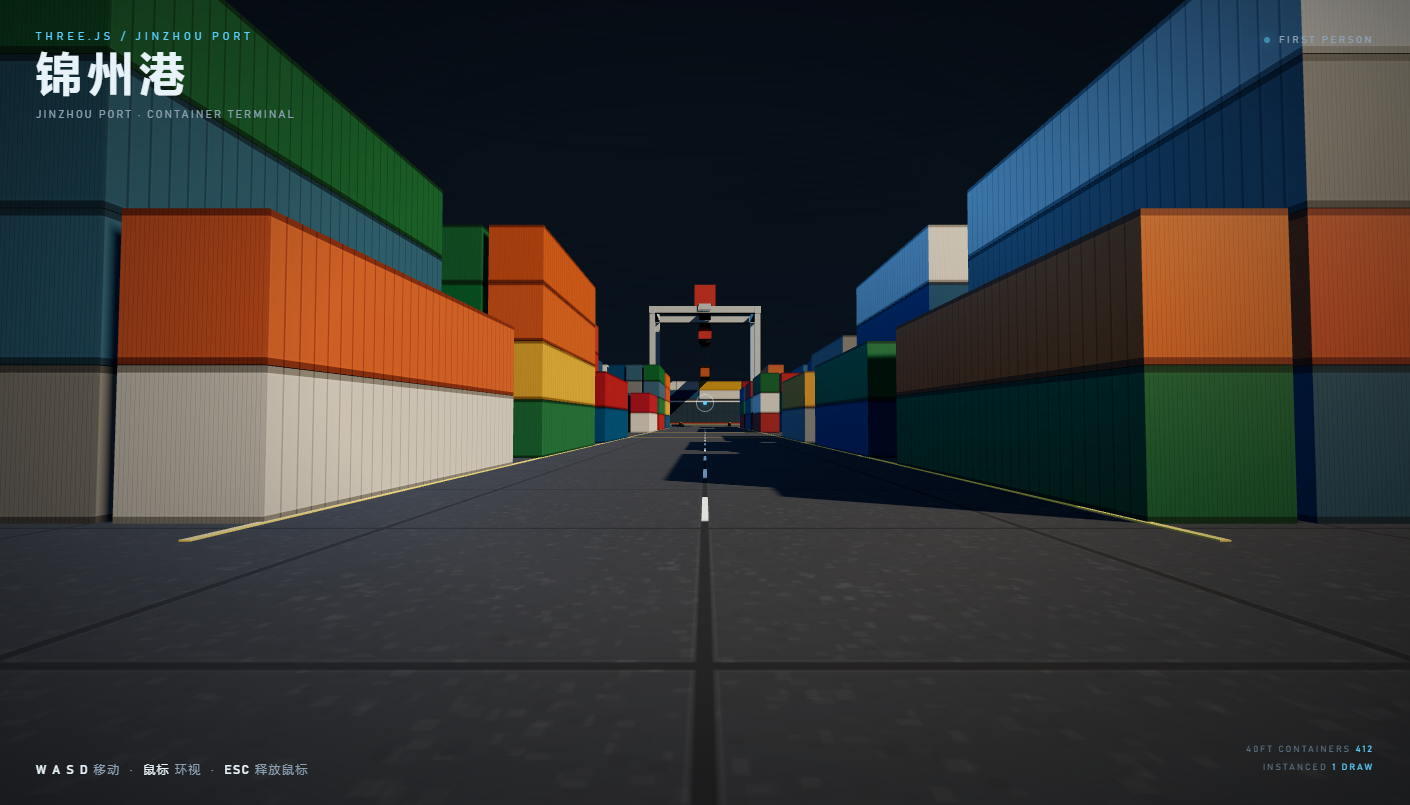
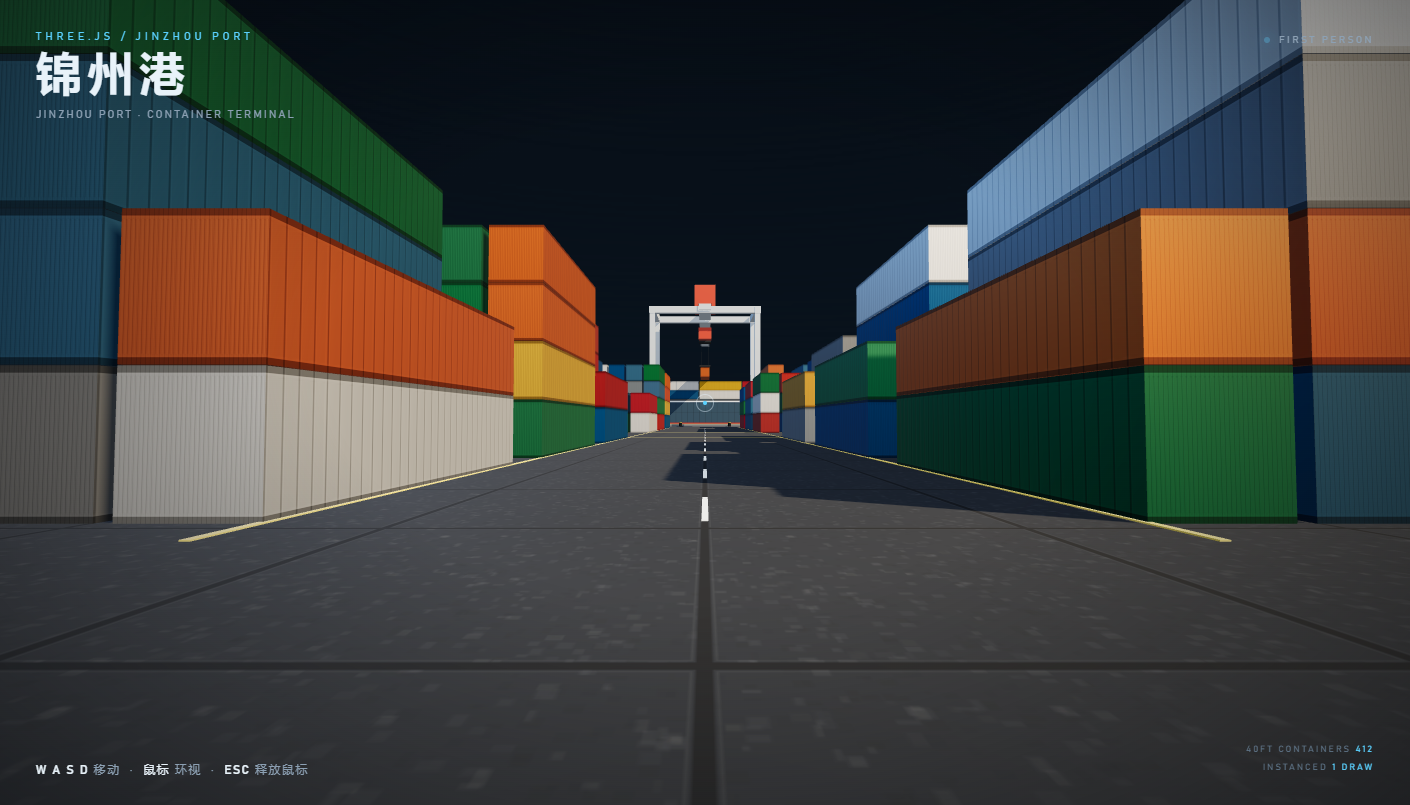
feat: 集装箱钢铁质感（metalness 0.8 / RoomEnvironment IBL / 瓦楞 bump）
- 集装箱改为 MeshStandardMaterial，metalness 0.8、roughness 0.6
- 使用 RoomEnvironment + PMREMGenerator 生成环境贴图，增加金属反射
- 代码生成波浪瓦楞 bump map（波纹、横梁、角柱），bumpScale 0.1
- 增加 AmbientLight 并提亮太阳光，阴影过渡更柔和

diff --git a/index.html b/index.html
@@ -328,6 +328,7 @@
   <script type="module">
     import * as THREE from 'three';
     import { PointerLockControls } from 'three/addons/controls/PointerLockControls.js';
+    import { RoomEnvironment } from 'three/addons/environments/RoomEnvironment.js';
 
     const EYE_HEIGHT = 1.7;
     const CONTAINER = { w: 2.44, h: 2.59, l: 12.19 };
@@ -350,7 +351,7 @@
     renderer.shadowMap.enabled = true;
     renderer.shadowMap.type = THREE.PCFSoftShadowMap;
     renderer.toneMapping = THREE.ACESFilmicToneMapping;
-    renderer.toneMappingExposure = 1.35;
+    renderer.toneMappingExposure = 1.3;
     document.body.appendChild(renderer.domElement);
 
     const anisotropy = renderer.capabilities.getMaxAnisotropy();
@@ -361,6 +362,14 @@
     const scene = new THREE.Scene();
     scene.background = makeSkyTexture();
     scene.fog = new THREE.Fog(0x0e1c28, 170, 460);
+
+    // HDR-ish image based lighting for the metal container surfaces.
+    const pmremGenerator = new THREE.PMREMGenerator(renderer);
+    const roomEnvironment = new RoomEnvironment();
+    scene.environment = pmremGenerator.fromScene(roomEnvironment, 0.04).texture;
+    scene.environmentIntensity = 0.3;
+    roomEnvironment.dispose();
+    pmremGenerator.dispose();
 
     const camera = new THREE.PerspectiveCamera(
       70,
@@ -449,7 +458,7 @@
     /* ------------------------------------------------------------------ */
     /*  Lights                                                             */
     /* ------------------------------------------------------------------ */
-    const sun = new THREE.DirectionalLight(0xffe2b8, 4.2);
+    const sun = new THREE.DirectionalLight(0xffe2b8, 5.2);
     sun.position.set(75, 70, 45);
     sun.castShadow = true;
     sun.shadow.mapSize.set(4096, 4096);
@@ -465,10 +474,13 @@
     scene.add(sun);
     scene.add(sun.target);
 
-    const skyFill = new THREE.HemisphereLight(0x9dc0e6, 0x1b2027, 1.05);
+    const skyFill = new THREE.HemisphereLight(0x9dc0e6, 0x1b2027, 0.85);
     scene.add(skyFill);
 
-    const coolFill = new THREE.DirectionalLight(0x4a8fce, 1.0);
+    const ambient = new THREE.AmbientLight(0xc4d8ea, 0.18);
+    scene.add(ambient);
+
+    const coolFill = new THREE.DirectionalLight(0x4a8fce, 0.8);
     coolFill.position.set(-60, 40, -80);
     scene.add(coolFill);
 
@@ -480,6 +492,7 @@
       new THREE.MeshStandardMaterial({
         map: makeConcreteTexture(),
         color: 0xffffff,
+        envMapIntensity: 0.35,
         roughness: 0.94,
         metalness: 0.06
       })
@@ -529,6 +542,7 @@
         color: 0xffffff,
         roughness: 0.26,
         metalness: 0.35,
+        envMapIntensity: 0.25,
         emissive: 0x0b2a3d,
         emissiveIntensity: 0.6
       })
@@ -659,12 +673,14 @@
 
     const containerGeo = new THREE.BoxGeometry(CONTAINER.w, CONTAINER.h, CONTAINER.l);
     const containerTex = makeContainerTexture();
+    const containerBump = makeContainerBumpTexture();
     const containerMat = new THREE.MeshStandardMaterial({
       map: containerTex,
-      bumpMap: containerTex,
-      bumpScale: 0.012,
-      roughness: 0.62,
-      metalness: 0.32,
+      bumpMap: containerBump,
+      bumpScale: 0.1,
+      roughness: 0.6,
+      metalness: 0.8,
+      envMapIntensity: 1.1,
       color: 0xffffff
     });
 
@@ -954,7 +970,7 @@
       c.height = size;
       const ctx = c.getContext('2d');
 
-      ctx.fillStyle = '#30353c';
+      ctx.fillStyle = '#252a31';
       ctx.fillRect(0, 0, size, size);
 
       for (let i = 0; i < 900; i++) {
@@ -963,7 +979,7 @@
         ctx.fillRect(Math.random() * size, Math.random() * size, 2 + Math.random() * 5, 2 + Math.random() * 5);
       }
 
-      ctx.strokeStyle = '#20242a';
+      ctx.strokeStyle = '#171b20';
       ctx.lineWidth = 3;
       ctx.strokeRect(1.5, 1.5, size - 3, size - 3);
       ctx.strokeStyle = 'rgba(255, 255, 255, 0.035)';
@@ -975,6 +991,46 @@
       tex.wrapT = THREE.RepeatWrapping;
       tex.repeat.set(120, 80);
       tex.colorSpace = THREE.SRGBColorSpace;
+      tex.anisotropy = anisotropy;
+      return tex;
+    }
+
+    function makeContainerBumpTexture() {
+      const size = 256;
+      const c = document.createElement('canvas');
+      c.width = size;
+      c.height = size;
+      const ctx = c.getContext('2d');
+      const img = ctx.createImageData(size, size);
+
+      for (let y = 0; y < size; y++) {
+        for (let x = 0; x < size; x++) {
+          // Vertical corrugation: grooves line up with the dark ribs in the colour map.
+          const rib = 0.5 - 0.5 * Math.cos((x / size) * Math.PI * 2 * 4);
+          let height = 80 + rib * 150;
+
+          // Raised top / bottom rails.
+          if (y < 10 || y > size - 10) height = 245;
+          else if (y < 18 || y > size - 18) height = 190;
+
+          // Raised corner posts.
+          if (x < 6 || x > size - 6) height = 250;
+
+          const i = (y * size + x) * 4;
+          const v = Math.round(height);
+          img.data[i] = v;
+          img.data[i + 1] = v;
+          img.data[i + 2] = v;
+          img.data[i + 3] = 255;
+        }
+      }
+
+      ctx.putImageData(img, 0, 0);
+
+      const tex = new THREE.CanvasTexture(c);
+      tex.wrapS = THREE.RepeatWrapping;
+      tex.wrapT = THREE.RepeatWrapping;
+      tex.repeat.set(8, 1);
       tex.anisotropy = anisotropy;
       return tex;
     }

diff --git a/README.md b/README.md
@@ -15,13 +15,21 @@
 - “锦州港 / JINZHOU PORT” 大门
 - 暖色太阳平行光 + PCFSoft 柔化阴影
 - 第一人称漫游：点击锁定鼠标、自由环视、WASD 移动
-- 仓库/集装箱/岸桥腿/大门立柱均有简单碰撞
+- 集装箱、岸桥腿、大门立柱均有简单碰撞
+
+## 金属质感
+
+- 集装箱使用 **MeshStandardMaterial**，`metalness = 0.8`、`roughness = 0.6`
+- 通过 **RoomEnvironment + PMREMGenerator** 生成环境贴图（IBL），金属表面会反射环境光
+- 程序化生成的 **波浪瓦楞 bump map**：竖向波纹 + 上下横梁 + 角柱，配合 `bumpScale = 0.1`
+- 额外加入 **AmbientLight**，与半球光、太阳光配合，让阴影过渡更柔和
 
 ## 性能优化
 
 - 所有集装箱合并为 **1 个 InstancedMesh**（1 次 draw call），而不是几百个独立 Mesh
 - 每个实例通过 `setColorAt` 单独着色，共享同一份几何体和材质
 - 场景为静态几何，**阴影贴图只在启动时生成一次**（4096 × 4096），之后不再逐帧重绘
+- 环境贴图只在启动时 PMREM 预计算一次，运行时不重新生成
 - 移动逻辑只做水平位移和 AABB 碰撞，无逐帧对象创建
 - 水面仅通过纹理偏移产生细微流动，不触发阴影更新
 
